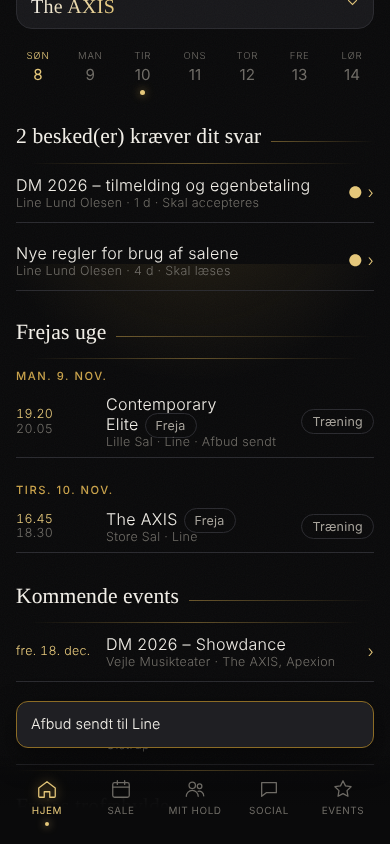
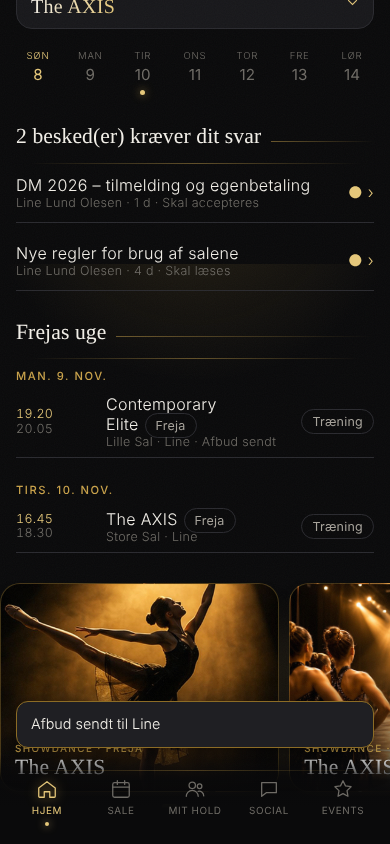
Home: team picture carousel above upcoming events (per team: admin/trainer-chosen pictures via set_team_gallery (0037), else a daily random pick from Line's photos/cover/catalog), tap → team; Team page: staff 'Billeder til forsiden' picker (Line's photos, team folders, catalog); third messages group
Claude-Session: https://claude.ai/code/session_01GGpukzb1UrCDBdg1Js3mqC

diff --git a/src/domain/llds/screens/Team.tsx b/src/domain/llds/screens/Team.tsx
@@ -1,6 +1,6 @@
 import { useCallback, useEffect, useState, type ReactElement } from "react";
 import { useTranslation } from "react-i18next";
-import { api, type Message, type Absence, type Event, type Member, type PersonBadge, type Result, type Session } from "@/core/api";
+import { api, type Thread, type Message, type Absence, type Event, type Member, type PersonBadge, type Result, type Session } from "@/core/api";
 import { resolveImage } from "../lib/catalog";
 import { aboutImage, teamAccent } from "../lib/art";
 import { confetti } from "../lib/confetti";
@@ -11,8 +11,9 @@ import { TeamPicker } from "../components/TeamPicker";
 import { SessionSheet } from "../components/SessionSheet";
 import { Sheet, Toast } from "../components/Sheet";
 import { MessageComposer, MessageSheet } from "../components/Messages";
-import { ThreadComposer } from "../components/Threads";
+import { ThreadComposer, ThreadSheet } from "../components/Threads";
 import { ScrollList } from "../components/ScrollList";
+import { GalleryPicker } from "../components/TeamCarousel";
 import { TopRight } from "../components/ProfileMenu";
 import { Folders } from "./Folders";
 import { Choreo } from "./Choreo";
@@ -43,6 +44,7 @@ export function TeamScreen() {
   const [open, setOpen] = useState<Session | null>(null);
   const [compose, setCompose] = useState(false);
   const [write, setWrite] = useState(false);
+  const [threads, setThreads] = useState<Thread[]>([]); const [openThread, setOpenThread] = useState<Thread | null>(null);
   const [msgs, setMsgs] = useState<Message[]>([]);
   const [openMsg, setOpenMsg] = useState<Message | null>(null);
   const [award, setAward] = useState<Member | null>(null);
@@ -50,6 +52,7 @@ export function TeamScreen() {
   const [badges, setBadges] = useState<PersonBadge[]>([]);
   const [giveTo, setGiveTo] = useState<Member | null>(null);
   const [openBadge, setOpenBadge] = useState<PersonBadge | null>(null);
+  const [galleryOpen, setGalleryOpen] = useState(false); const refreshMe = useAuth((x) => x.refresh);
   const [awardTitle, setAwardTitle] = useState("");
   const [toast, setToast] = useState<string | null>(null);
   const say = (m: string) => { setToast(m); setTimeout(() => setToast(null), 2600); };
@@ -62,6 +65,7 @@ export function TeamScreen() {
     setSessions(mine); setEvents(ev.filter((e) => !e.team_ids.length || e.team_ids.includes(teamId))); setResults(rs); setStats(st); setBadges(bd);
     setAbsences(await api.listAbsences(mine.map((x) => x.id)));
     void api.listMessages().then(setMsgs).catch(() => setMsgs([]));
+    void api.listThreads().then((th) => setThreads(th.filter((x) => x.team_id === teamId))).catch(() => setThreads([]));
     if (staff) setMembers((await api.listMembers()).filter((p) => p.memberships.some((m) => m.team_id === teamId)));
   }, [teamId, staff]);
   useEffect(() => { void load(); }, [load]);
@@ -129,9 +133,11 @@ export function TeamScreen() {
           <div className="row" style={{ gap: 6 }}>{staff && <button className="small" data-testid="write-team" onClick={() => setCompose(true)}>{t("team.writeToTeam")}</button>}<button className="ghost small" data-testid="write-trainer" onClick={() => setWrite(true)}>{staff ? t("threads.newConversation") : t("threads.writeTo")}</button></div></div>
         <MsgGroup label={t("team.fromTrainer", { team: team.name })} list={teamMsgs} Row={Row} empty={t("team.noTeamMessages")} cls="team" />
         {allMsgs.length > 0 && <MsgGroup label={t("team.toEveryone")} list={allMsgs} Row={Row} empty="" cls="all" />}
+        <ThreadGroup label={staff ? t("team.conversationsStaff") : t("team.conversationsMine")} threads={threads} onOpen={(th) => setOpenThread(th)} empty={staff ? t("team.noConversationsStaff") : t("team.noConversationsMine")} />
       </div>); })()}
       {openMsg && <MessageSheet message={openMsg} onClose={() => { setOpenMsg(null); void load(); }} toast={say} />}
-      {write && <ThreadComposer teamId={team.id} teamName={team.name} onClose={() => setWrite(false)} toast={say} />}
+      {write && <ThreadComposer teamId={team.id} teamName={team.name} onClose={() => setWrite(false)} onSent={() => void load()} toast={say} />}
+      {openThread && <ThreadSheet thread={openThread} onClose={() => { setOpenThread(null); void load(); }} toast={say} />}
 
       {(team.description || team.price || team.day_time) && (
         <div className="sec"><h2>{t("team.about")}</h2><div className="card" data-testid="team-about">
@@ -152,6 +158,8 @@ export function TeamScreen() {
         {!results.length && <p className="muted small" style={{ margin: 0 }}>{events.find((e) => e.kind === "competition") ? t("team.noTrophiesYet", { event: events.find((e) => e.kind === "competition")!.title, date: dateLabel(events.find((e) => e.kind === "competition")!.starts_at) }) : t("team.noTrophies")}</p>}
       </ScrollList></div>
 
+      {staff && <div className="row" style={{ justifyContent: "flex-end", marginTop: -6 }}><button className="linklike small" data-testid="open-gallery" onClick={() => setGalleryOpen(true)}>{t("gallery.edit")}</button></div>}
+      {galleryOpen && <GalleryPicker team={team} onClose={() => setGalleryOpen(false)} onSaved={() => { setGalleryOpen(false); say(t("gallery.saved")); void refreshMe(); }} />}
       <div className="sec"><div className="row between"><h2>{t("badges.title")}</h2>{staff && <button className="linklike small" onClick={() => setPage("dancers")}>{t("badges.give")}</button>}</div><ScrollList testId="team-badges">
         {[...badges].sort((x, y) => y.created_at.localeCompare(x.created_at)).map((b) => <button key={b.id} className="item" onClick={() => setOpenBadge(b)}><span className="emblem sm"><span className="e">{b.emoji}</span></span><span className="grow">{b.person_name}<div className="tiny">{b.name}{b.note ? ` · “${b.note}”` : ""} · {ago(b.created_at)}</div></span></button>)}
         {!badges.length && <p className="muted small" style={{ margin: 0 }}>{t("badges.emptyTeam")}</p>}
@@ -191,6 +199,23 @@ function MsgGroup({ label, list, Row, empty, cls }: { label: string; list: Messa
         <button type="button" className={"msg-none" + (history ? " open" : "")} onClick={() => setHistory((h) => !h)} aria-expanded={history}><span className="dot" aria-hidden /><span className="grow">{t("msg.noneNew")}</span><span className="tiny">{t("msg.history", { n: done.length })} <i className="caret">{history ? "⌃" : "⌄"}</i></span></button>
       ) : empty ? <p className="muted small" style={{ margin: 0 }}>{empty}</p> : null)}
       {history && done.length > 0 && <ScrollList className="m0">{done.map((m) => <Row key={m.id} m={m} />)}</ScrollList>}
+    </div>
+  );
+}
+
+/** Conversations on this team (me ↔ trainer/admin, either way round): unread ones pop up, the rest fold out. */
+function ThreadGroup({ label, threads, onOpen, empty }: { label: string; threads: Thread[]; onOpen: (t: Thread) => void; empty: string }) {
+  const { t } = useTranslation();
+  const [history, setHistory] = useState(false);
+  const due = threads.filter((x) => x.unread), done = threads.filter((x) => !x.unread);
+  const Row = ({ th }: { th: Thread }) => <button className={"item" + (th.unread ? " due" : "")} onClick={() => onOpen(th)} data-testid="team-thread"><span className="grow">{th.subject}<div className="tiny">{th.last_sender_name ?? th.created_by_name} · {ago(th.last_at)}{th.last_body ? ` · ${th.last_body.slice(0, 60)}` : ""}</div></span><span className="gold">{th.unread ? "● " : ""}›</span></button>;
+  return (
+    <div className="group mine" data-testid="msggroup-mine"><div className="eyebrow">{label}</div>
+      {due.length > 0 && <ScrollList className="m0">{due.map((th) => <Row key={th.id} th={th} />)}</ScrollList>}
+      {due.length === 0 && (threads.length ? (
+        <button type="button" className={"msg-none" + (history ? " open" : "")} onClick={() => setHistory((h) => !h)} aria-expanded={history}><span className="dot" aria-hidden /><span className="grow">{t("msg.noneNew")}</span><span className="tiny">{t("msg.history", { n: done.length })} <i className="caret">{history ? "⌃" : "⌄"}</i></span></button>
+      ) : <p className="muted small" style={{ margin: 0 }}>{empty}</p>)}
+      {history && done.length > 0 && <ScrollList className="m0">{done.map((th) => <Row key={th.id} th={th} />)}</ScrollList>}
     </div>
   );
 }

diff --git a/src/domain/llds/components/TeamCarousel.tsx b/src/domain/llds/components/TeamCarousel.tsx
@@ -1,0 +1,79 @@
+import { useEffect, useMemo, useRef, useState } from "react";
+import { useTranslation } from "react-i18next";
+import { api, type MediaItem, type Team } from "@/core/api";
+import { useAuth } from "@/core/auth";
+import { useNav } from "@/core/nav";
+import { catalogFor, catalogUrl, resolveImage } from "../lib/catalog";
+import { Sheet } from "./Sheet";
+
+/** Pictures for a team's carousel: what admin/trainer chose, else a stable random pick (Line's photos → cover → catalog). */
+export function teamSlides(team: Team, seed: number): string[] {
+  if (team.gallery?.length) return team.gallery.map((r) => catalogUrl(r) ?? resolveImage(r) ?? "").filter(Boolean);
+  const own = [...(team.photos ?? []), ...(team.cover_url && /^https?:/.test(team.cover_url) ? [team.cover_url] : [])];
+  const pool = own.length ? own : catalogFor("team").map((c) => catalogUrl(c.key)!);
+  let h = seed; for (const c of team.id) h = (h * 31 + c.charCodeAt(0)) >>> 0;
+  const out: string[] = []; const used = new Set<number>();
+  for (let i = 0; i < Math.min(3, pool.length); i++) { h = (h * 1103515245 + 12345) >>> 0; let k = h % pool.length; while (used.has(k)) k = (k + 1) % pool.length; used.add(k); out.push(pool[k]); }
+  return out;
+}
+
+/** Home: one snap-scrolling strip of the viewed person's teams – a photo per team with the name on it; tap → that team. */
+export function TeamCarousel() {
+  const { t } = useTranslation();
+  const me = useAuth((s) => s.me); const viewing = useAuth((s) => s.viewing); const setTeam = useAuth((s) => s.setTeam); const setViewing = useAuth((s) => s.setViewing);
+  const setTab = useNav((s) => s.setTab);
+  const ref = useRef<HTMLDivElement>(null);
+  const [idx, setIdx] = useState(0);
+  const slides = useMemo(() => {
+    if (!me || !viewing) return [];
+    const seed = Math.floor(Date.now() / 864e5); // new random pick every day
+    const ids = new Set<string>();
+    for (const m of me.memberships) if (m.person_id === me.person.id || (me.children.some((c) => c.id === m.person_id) && m.role === "dancer")) ids.add(m.team_id);
+    const teams = me.teams.filter((x) => ids.has(x.id));
+    return teams.flatMap((team) => teamSlides(team, seed).map((url) => ({ team, url, child: me.children.find((c) => me.memberships.some((m) => m.person_id === c.id && m.team_id === team.id && m.role === "dancer")) })));
+  }, [me, viewing]);
+  // gentle auto-advance while visible
+  useEffect(() => {
+    if (slides.length < 2) return;
+    const i = setInterval(() => { const el = ref.current; if (!el || document.visibilityState !== "visible") return; const r = el.getBoundingClientRect(); if (r.bottom < 0 || r.top > innerHeight) return; const next = (idx + 1) % slides.length; const c = el.children[next] as HTMLElement | undefined; if (c) el.scrollTo({ left: c.offsetLeft - 16, behavior: "smooth" }); }, 5000);
+    return () => clearInterval(i);
+  }, [idx, slides.length]);
+  if (!slides.length) return null;
+  const onScroll = () => { const el = ref.current; if (!el) return; let best = 0, bd = 1e9; Array.from(el.children).forEach((c, k) => { const d = Math.abs((c as HTMLElement).offsetLeft - 16 - el.scrollLeft); if (d < bd) { bd = d; best = k; } }); if (best !== idx) setIdx(best); };
+  return (
+    <div className="sec" data-testid="team-carousel">
+      <div className="tcar" ref={ref} onScroll={onScroll}>
+        {slides.map((s, i) => <button key={s.team.id + i} type="button" className="tcar-slide" style={{ backgroundImage: `url(${s.url})` }} onClick={() => { if (s.child) setViewing({ personId: s.child.id, isChild: true }); else if (viewing?.isChild) setViewing({ personId: me!.person.id, isChild: false }); setTeam(s.team.id); setTab("team"); }}>
+          <span className="tcar-cap"><span className="eyebrow">{s.team.style ?? ""}{s.child ? ` · ${s.child.first_name}` : ""}</span><b>{s.team.name}</b></span>
+        </button>)}
+      </div>
+      {slides.length > 1 && <div className="tcar-dots" aria-hidden>{slides.map((_, i) => <i key={i} className={i === idx ? "on" : ""} />)}</div>}
+      <span className="sr-only">{t("home.carousel")}</span>
+    </div>
+  );
+}
+
+/** Team page (staff): choose the pictures for the Home carousel – Line's photos, the team's folders, the catalog. */
+export function GalleryPicker({ team, onClose, onSaved }: { team: Team; onClose: () => void; onSaved: () => void }) {
+  const { t } = useTranslation();
+  const [sel, setSel] = useState<string[]>(team.gallery ?? []);
+  const [media, setMedia] = useState<MediaItem[]>([]);
+  const [busy, setBusy] = useState(false);
+  useEffect(() => { void (async () => { try { const fs = await api.listFolders(team.id); const all = await Promise.all(fs.map((f) => api.listMedia(f.id).catch(() => [] as MediaItem[]))); setMedia(all.flat().filter((m) => m.kind === "image").slice(0, 60)); } catch { setMedia([]); } })(); }, [team.id]);
+  const toggle = (r: string) => setSel((s) => (s.includes(r) ? s.filter((x) => x !== r) : [...s, r]));
+  const groups: { title: string; items: { ref: string; url: string }[] }[] = [
+    { title: t("gallery.line"), items: [...(team.photos ?? []), ...(team.cover_url && /^https?:/.test(team.cover_url) ? [team.cover_url] : [])].map((u) => ({ ref: u, url: u })) },
+    { title: t("gallery.folders"), items: media.map((m) => ({ ref: m.url, url: m.url })) },
+    { title: t("gallery.catalog"), items: catalogFor("team").map((c) => ({ ref: c.key, url: catalogUrl(c.key)! })) },
+  ].filter((g) => g.items.length);
+  return (
+    <Sheet onClose={onClose} eyebrow={team.name} title={t("gallery.title")}>
+      <p className="tiny muted" style={{ marginTop: 0 }}>{t("gallery.sub", { n: sel.length })}</p>
+      {groups.map((g) => <div key={g.title} style={{ marginBottom: 10 }}><div className="eyebrow">{g.title}</div>
+        <div className="galpick">{g.items.map((it) => { const i = sel.indexOf(it.ref); return <button key={it.ref} type="button" className={"gthumb" + (i >= 0 ? " on" : "")} style={{ backgroundImage: `url(${it.url})` }} onClick={() => toggle(it.ref)} aria-pressed={i >= 0}>{i >= 0 && <b>{i + 1}</b>}</button>; })}</div></div>)}
+      <div className="row"><button className="cta grow" disabled={busy} onClick={async () => { setBusy(true); try { await api.setTeamGallery(team.id, sel); onSaved(); } finally { setBusy(false); } }} data-testid="gallery-save">{t("common.save")}</button>
+        <button className="ghost" onClick={() => setSel([])}>{t("gallery.clear")}</button></div>
+      <p className="tiny muted">{t("gallery.emptyHint")}</p>
+    </Sheet>
+  );
+}

diff --git a/src/styles.css b/src/styles.css
@@ -557,3 +557,11 @@ button.cta { box-shadow:0 10px 26px -12px rgba(201,162,74,.7); }
 .tile6 b{font-family:var(--display);font-weight:500;font-size:1.7rem;line-height:1;color:var(--fg)}.tile6 span{font-size:.72rem;line-height:1.2}
 .tile6.hot b{background:linear-gradient(90deg,var(--gold2),var(--gold));-webkit-background-clip:text;background-clip:text;color:transparent}.tile6.hot span{color:var(--fg)}
 .teampick-head>.grow{display:flex;flex-direction:column;align-items:flex-start;gap:1px;min-width:0}.teampick-head .eyebrow{display:block}
+
+/* Home: team picture carousel */
+.tcar{display:flex;gap:10px;overflow-x:auto;scroll-snap-type:x mandatory;scrollbar-width:none;padding:2px 16px 4px;margin:0 -16px;-webkit-overflow-scrolling:touch}.tcar::-webkit-scrollbar{display:none}
+.tcar-slide{flex:none;width:78%;max-width:420px;aspect-ratio:4/3;border-radius:20px;overflow:hidden;background:#000 center/cover;border:1px solid rgba(201,162,74,.3);scroll-snap-align:start;position:relative;padding:0;cursor:pointer;isolation:isolate;box-shadow:0 18px 40px -26px rgba(201,162,74,.6)}
+.tcar-slide::before{content:"";position:absolute;inset:0;background:linear-gradient(180deg,rgba(10,10,12,0) 45%,rgba(10,10,12,.85));z-index:-1}
+.tcar-cap{position:absolute;left:14px;right:14px;bottom:12px;text-align:left;color:#fff;display:flex;flex-direction:column;gap:2px}.tcar-cap .eyebrow{margin:0;font-size:.62rem}.tcar-cap b{font-family:var(--display);font-weight:500;font-size:1.35rem;line-height:1.05}
+.tcar-dots{display:flex;justify-content:center;gap:5px;margin-top:8px}.tcar-dots i{width:5px;height:5px;border-radius:50%;background:rgba(255,255,255,.25);transition:all .3s}.tcar-dots i.on{width:16px;border-radius:3px;background:var(--gold2)}
+.sr-only{position:absolute;width:1px;height:1px;overflow:hidden;clip:rect(0 0 0 0)}

diff --git a/src/core/api/types.ts b/src/core/api/types.ts
@@ -55,6 +55,7 @@ export type Team = {
   admission?: "open" | "tryout" | "audition";   // how dancers get on the team (badge on website + app)
   admission_note?: string | null;
   photos?: string[];            // Line's own photos of the team (website URLs); a second one is shown under "Om holdet"
+  gallery?: string[];           // pictures for the Home carousel, chosen by admin/trainer (catalog keys, art/ paths or URLs); empty = random pick
   alt_url?: string | null;      // the raw cover_url when a real cover_path photo overrides it – shown as a mood image on the team page
   price?: string | null;
   years?: string | null;
@@ -192,6 +193,8 @@ export interface Api {
   /* teams & members (admin/staff) */
   createTeam(input: TeamInput & { name: string }): Promise<Team>;
   updateTeam(id: string, patch: TeamInput): Promise<void>;
+  /** Admin or the team's trainer/assistant: pictures for the Home carousel. */
+  setTeamGallery(teamId: string, refs: string[]): Promise<void>;
   listMembers(): Promise<Member[]>;
   setMemberships(personId: string, memberships: { team_id: string; role: Role }[]): Promise<void>;
   /** Admin: replace the set of children linked to a parent (guardian rows). */

diff --git a/src/core/api/supabase-schedule.ts b/src/core/api/supabase-schedule.ts
@@ -78,6 +78,7 @@ export function supabaseSchedule(sb: SupabaseClient, fail: Fail, schoolId: () =>
       const { data, error } = await sb.from("team").insert({ school_id: await schoolId(), ...i, parents_see_video: i.parents_see_video ?? (i.category === "mini" || i.category === "kids") }).select("*").single(); fail(error); return data as Team;
     },
     async updateTeam(id: string, patch: TeamInput) { const { error } = await sb.from("team").update(patch).eq("id", id); fail(error); },
+    async setTeamGallery(teamId: string, refs: string[]) { const { error } = await sb.rpc("set_team_gallery", { p_team: teamId, p_refs: refs }); fail(error); },
     async listMembers(): Promise<Member[]> {
       const { data: persons, error } = await sb.from("person").select("*").neq("status", "rejected").order("first_name"); fail(error);
       const { data: ms } = await sb.from("membership").select("person_id,team_id,role");

diff --git a/src/domain/llds/screens/Home.tsx b/src/domain/llds/screens/Home.tsx
@@ -7,6 +7,7 @@ import { TeamPicker } from "../components/TeamPicker";
 import { SessionSheet } from "../components/SessionSheet";
 import { Toast } from "../components/Sheet";
 import { MessageBanner } from "../components/Messages";
+import { TeamCarousel } from "../components/TeamCarousel";
 import { TopRight } from "../components/ProfileMenu";
 import { artFor } from "../lib/art";
 import { catalogUrl } from "../lib/catalog";
@@ -114,6 +115,7 @@ export function Home() {
         </div>
       </div>
     </>),
+    gallery: () => <TeamCarousel />,
     stats: () => (<>
       {isAdmin && (() => { const tiles: { n: number; label: string; go: () => void; testId?: string }[] = [
           { n: sessions.filter((s) => new Date(s.starts_at).toDateString() === today && !s.cancelled).length, label: t("home.trainingsToday"), go: () => setTab("rooms") },

diff --git a/src/core/api/mock-schedule.ts b/src/core/api/mock-schedule.ts
@@ -128,6 +128,7 @@ export function scheduleOps(get: () => { S: SchedState; persons: Person[]; membe
       g.teams.push(t); g.save(); g.emit(); return t;
     },
     async updateTeam(tid: string, patch: TeamInput) { const g = get(); const t = g.teams.find((x) => x.id === tid); if (t) Object.assign(t, patch); g.save(); g.emit(); },
+    async setTeamGallery(tid: string, refs: string[]) { const g = get(); const t = g.teams.find((x) => x.id === tid); if (t) t.gallery = refs; g.save(); g.emit(); },
     async listMembers(): Promise<Member[]> {
       const g = get();
       return g.persons.filter((p) => p.status !== "rejected").map((p) => ({ ...p, memberships: g.memberships.filter((m) => m.person_id === p.id),

diff --git a/src/core/appearance/index.ts b/src/core/appearance/index.ts
@@ -2,7 +2,7 @@ import { create } from "zustand";
 import { api, type Appearance, type CustomBox } from "@/core/api";
 
 /** Home sections an admin can reorder/hide (Admin → Tilpas appen). Order here = default order. */
-export const HOME_SECTIONS = ["hero", "teampick", "stats", "messages", "subs", "yourDay", "studio", "week", "upcoming", "payments", "badges"] as const;
+export const HOME_SECTIONS = ["hero", "teampick", "stats", "messages", "subs", "yourDay", "studio", "week", "gallery", "upcoming", "payments", "badges"] as const;
 export type HomeSection = (typeof HOME_SECTIONS)[number];
 
 type Store = { a: Appearance; loaded: boolean; load: () => Promise<void>; save: (a: Appearance) => Promise<void> };
